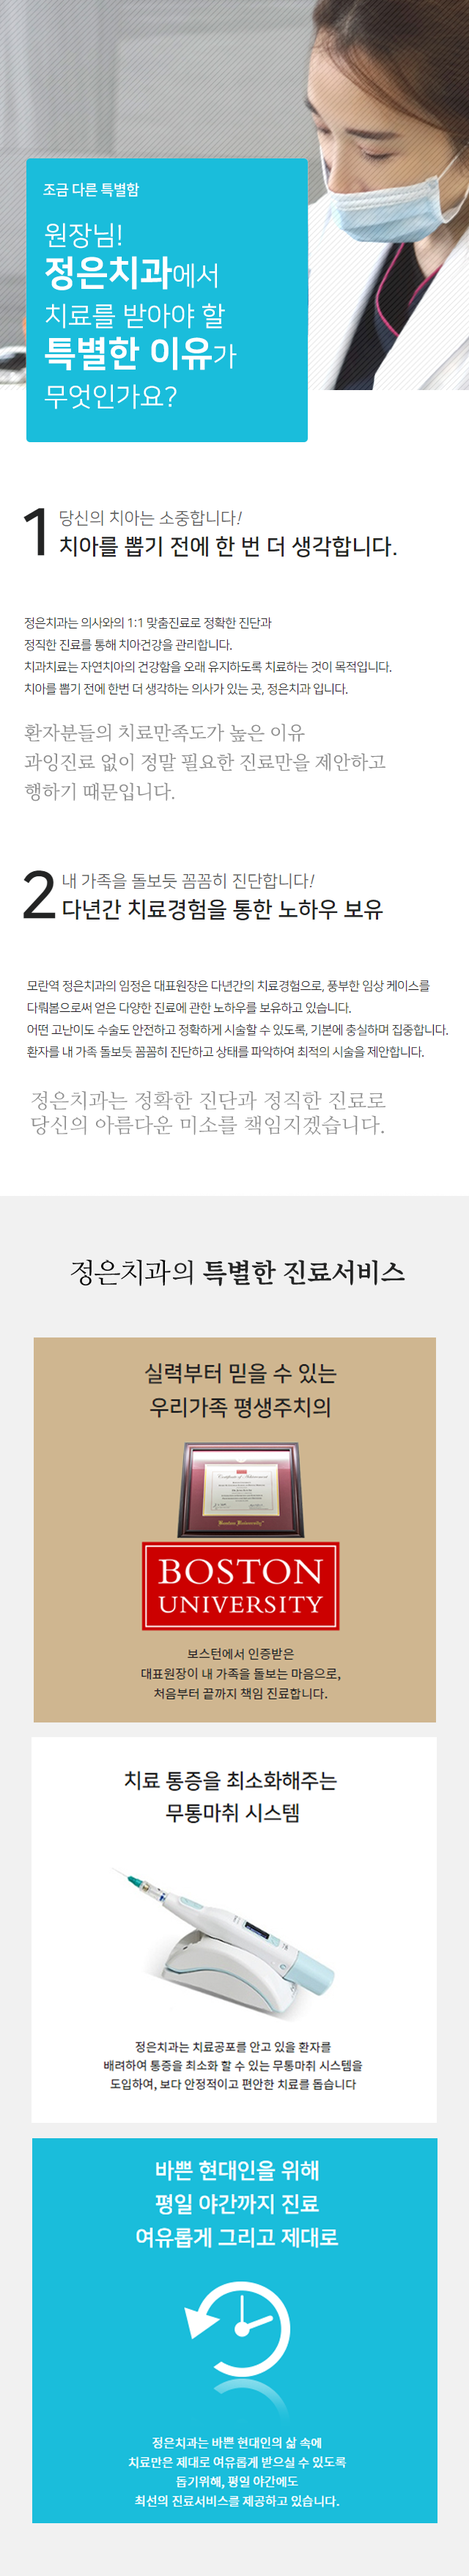
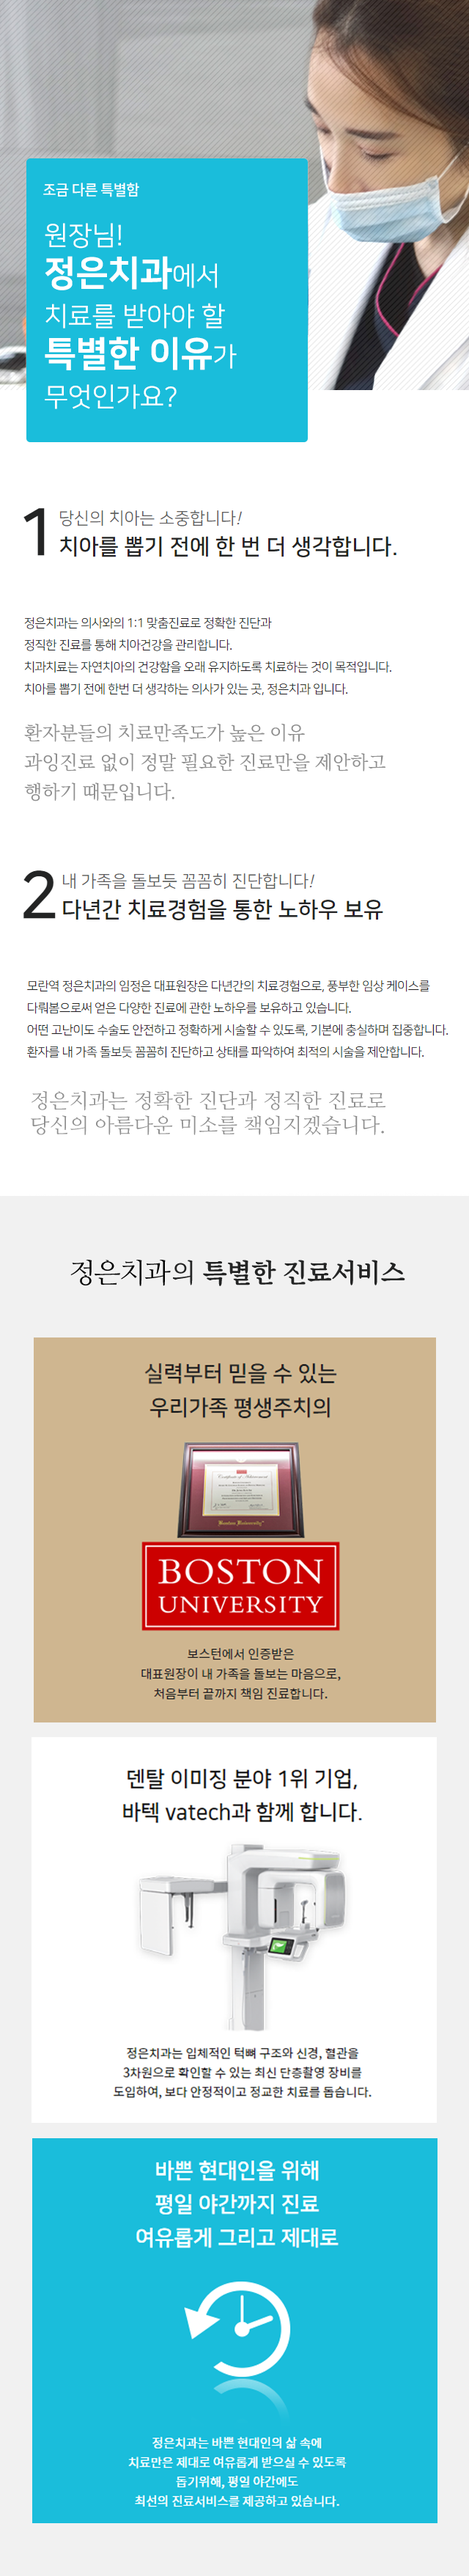
무통마취를 바텍 장비 소개로 변경

Changed region(s): [[0.25, 0.6826, 0.7812, 0.8377]]

diff --git a/index.html b/index.html
@@ -378,9 +378,9 @@
                         </li>
                         <li class="bg-white pd3">
                             <span class="line1"></span>
-                            <h3 class="h3 bold">치료 통증을 최소화해주는 <br>무통마취 시스템</h3>
-                            <img src="layouts/images/main_section06_03.jpg" alt="무통마취 시스템" style="margin:36px 0 0 ">
-                            <p>정은치과는 치료공포를 안고 있을 환자를<br>배려하여 통증을 최소화 할 수 있는 무통마취 시스템을<br>도입하여, 보다 안정적이고 편안한 치료를 돕습니다</p>
+                            <h3 class="h3 bold">덴탈 이미징 분야 1위 기업,<br>바텍 vatech과 함께 합니다.</h3>
+                            <img src="layouts/images/main_section06_03.png" alt="치과 단층촬영장비 CT" style="margin:10px 0 10px">
+                            <p>정은치과는 입체적인 턱뼈 구조와 신경, 혈관을<br>3차원으로 확인할 수 있는 최신 단층촬영 장비를<br>도입하여, 보다 안정적이고 정교한 치료를 돕습니다.</p>
                         </li>
                         <li class="bg-blue1 pd3">
                             <span class="line1"></span>
